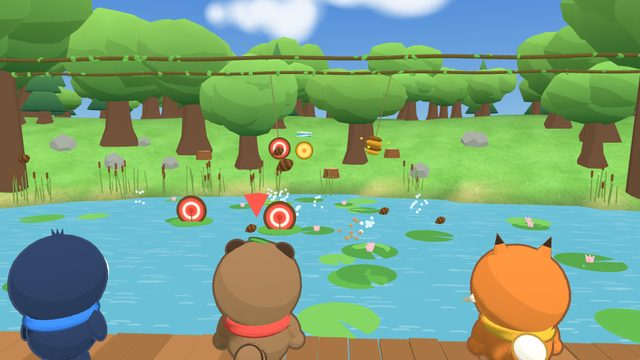
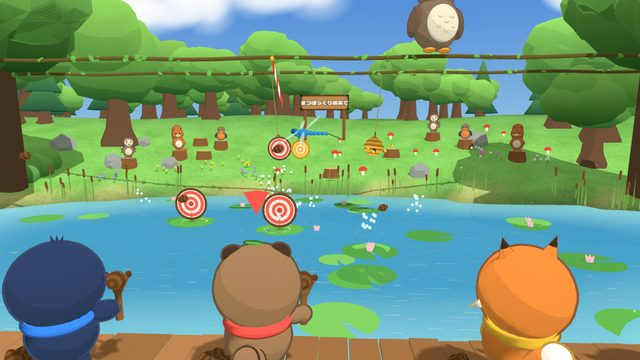
的あて: 会場を仕上げる(観客・審判・看板・岸の飾り)
- 観客(リス・ハリネズミ・コマドリ)を向こう岸の左右の切り株に。金の的・れんぞく・おわりでよろこぶ
- 審判のホーホー先生を手前のつるの綱の右に。はじめ・おわりで羽ばたく
- 向こう岸のまん中に「まつぼっくり的あて」の木の看板(手前の木はどけて見えるように)
- 岸ぞいに花の群れ・しげみ、向こう岸にキノコ
- サムネイルを撮りなおした

Claude-Session: https://claude.ai/code/session_01Cisc6eBGskeR7WZHkdup4y

diff --git a/src/games/mato/stage.js b/src/games/mato/stage.js
@@ -186,6 +186,119 @@ function buildFarShore(g) {
   }
 }
 
+// 観客席: 向こう岸の左右の土手(的が出るまん中はあける)。切り株に座る
+export const SEATS = [
+  { x: -8.6, z: -20.5, kind: 'risu' },
+  { x: -10.8, z: -18.6, kind: 'harinezumi' },
+  { x: -6.6, z: -22.4, kind: 'komadori' },
+  { x: 8.4, z: -20.8, kind: 'komadori' },
+  { x: 10.6, z: -18.8, kind: 'risu' },
+  { x: 6.9, z: -22.6, kind: 'harinezumi' },
+];
+export const SEAT_TOP = 0.42;
+const SIGN = { x: 0, z: -24 }; // 木の看板(向こう岸のまん中、切り株の的より上に見える)
+function buildSeats(g) {
+  const bark = toonMaterial(0x8a5a32), ring = toonMaterial(0xe0b77c);
+  for (const s of SEATS) {
+    const y = groundY(s.x, s.z);
+    const st = new THREE.Mesh(new THREE.CylinderGeometry(0.4, 0.5, 0.6, 12), bark);
+    st.position.set(s.x, y + SEAT_TOP - 0.3, s.z);
+    const top = new THREE.Mesh(new THREE.CircleGeometry(0.38, 12), ring);
+    top.rotation.x = -Math.PI / 2;
+    top.position.set(s.x, y + SEAT_TOP + 0.005, s.z);
+    g.add(st, top);
+  }
+}
+
+// 向こう岸の飾り: 花の群れ・しげみ・キノコ・木の看板
+function signTexture() {
+  const cv = document.createElement('canvas');
+  cv.width = 512;
+  cv.height = 160;
+  const x = cv.getContext('2d');
+  x.fillStyle = '#7a4a24';
+  x.beginPath();
+  x.roundRect(4, 4, 504, 152, 30);
+  x.fill();
+  x.fillStyle = '#c98f55';
+  x.beginPath();
+  x.roundRect(16, 16, 480, 128, 22);
+  x.fill();
+  x.font = '400 56px "Dela Gothic One", sans-serif';
+  x.textAlign = 'center';
+  x.textBaseline = 'middle';
+  x.lineWidth = 10;
+  x.strokeStyle = '#4a2a12';
+  x.strokeText('まつぼっくり的あて', 256, 84);
+  x.fillStyle = '#fff6e0';
+  x.fillText('まつぼっくり的あて', 256, 84);
+  const t = new THREE.CanvasTexture(cv);
+  t.colorSpace = THREE.SRGBColorSpace;
+  return t;
+}
+function buildDecor(g) {
+  const rand = makeRand(64);
+  // 花の群れ(岸ぞい)
+  const petals = [0xff8ad8, 0xffd23c, 0xffffff, 0xb08aff, 0xff6a5a].map((h) => toonMaterial(h));
+  const stem = toonMaterial(0x4f8a3a);
+  const flowerGeo = new THREE.SphereGeometry(0.07, 6, 5);
+  for (let k = 0; k < 26; k++) {
+    const a = rand() * Math.PI * 2;
+    const q = 1.08 + rand() * 0.35;
+    const cx = POND.cx + Math.cos(a) * POND.rx * q, cz = POND.cz + Math.sin(a) * POND.rz * q;
+    if (cz > -3) continue;
+    const mat = petals[k % petals.length];
+    for (let i = 0; i < 6; i++) {
+      const x = cx + (rand() - 0.5) * 1.2, z = cz + (rand() - 0.5) * 1.2;
+      const y = groundY(x, z);
+      const h = 0.15 + rand() * 0.2;
+      const s = new THREE.Mesh(new THREE.CylinderGeometry(0.01, 0.01, h, 3), stem);
+      s.position.set(x, y + h / 2, z);
+      const f = new THREE.Mesh(flowerGeo, mat);
+      f.position.set(x, y + h, z);
+      g.add(s, f);
+    }
+  }
+  // しげみ
+  const bush = foliageClump(rand, { detail: 1, balls: 4, bottom: 0x2f6b35, top: 0x7fc25a });
+  const bushMat = new THREE.MeshToonMaterial({ vertexColors: true });
+  for (let i = 0; i < 18; i++) {
+    const a = rand() * Math.PI * 2;
+    const q = 1.15 + rand() * 0.3;
+    const x = POND.cx + Math.cos(a) * POND.rx * q, z = POND.cz + Math.sin(a) * POND.rz * q;
+    if (z > -4 || Math.abs(x) < 6) continue; // 向こう岸のまん中(切り株の的のところ)はあける
+    const b = new THREE.Mesh(bush, bushMat);
+    b.scale.setScalar(0.9 + rand() * 0.8);
+    b.position.set(x, groundY(x, z) + 0.2, z);
+    g.add(b);
+  }
+  // キノコ
+  const cap = toonMaterial(0xe8402f), dot = toonMaterial(0xffffff), mstem = toonMaterial(0xfff1d6);
+  for (let i = 0; i < 14; i++) {
+    const x = (rand() - 0.5) * 26, z = -18 - rand() * 6;
+    const y = groundY(x, z), s = 0.12 + rand() * 0.12;
+    const st = new THREE.Mesh(new THREE.CylinderGeometry(s * 0.35, s * 0.45, s * 1.2, 6), mstem);
+    st.position.set(x, y + s * 0.6, z);
+    const c = new THREE.Mesh(new THREE.SphereGeometry(s, 10, 6, 0, Math.PI * 2, 0, Math.PI / 2), cap);
+    c.position.set(x, y + s * 1.1, z);
+    const d = new THREE.Mesh(new THREE.SphereGeometry(s * 0.18, 5, 4), dot);
+    d.position.set(x + s * 0.4, y + s * 1.5, z + s * 0.3);
+    g.add(st, c, d);
+  }
+  // 木の看板
+  const wood = toonMaterial(0x8a5a32);
+  const sx = SIGN.x, sz = SIGN.z, sy = groundY(sx, sz);
+  for (const ox of [-1.3, 1.3]) {
+    const post = new THREE.Mesh(new THREE.CylinderGeometry(0.09, 0.11, 3.0, 8), wood);
+    post.position.set(sx + ox, sy + 1.5, sz);
+    g.add(post);
+  }
+  const board = new THREE.Mesh(new THREE.PlaneGeometry(3.2, 1.0), new THREE.MeshToonMaterial({ map: signTexture() }));
+  board.position.set(sx, sy + 2.5, sz + 0.12);
+  board.userData.noMerge = true;
+  g.add(board);
+}
+
 function buildForest(g) {
   const rand = makeRand(303);
   const spots = [];
@@ -194,6 +307,8 @@ function buildForest(g) {
     if (pondQ(x, z) < 1.25) continue;
     if (z > -4 && Math.abs(x) < 10 && z < 14) continue; // 桟橋のうしろ(カメラのまわり)はあける
     if (Math.abs(Math.abs(x) - VINE_X) < 3 && z < -7 && z > -18) continue; // 綱の木のまわり
+    if (Math.abs(x - SIGN.x) < 5 && z > SIGN.z - 3 && z < -17) continue; // 看板のまわりと、看板の手前
+    if (SEATS.some((s) => Math.hypot(x - s.x, z - s.z) < 2.5)) continue; // 観客席のまわり
     spots.push({ x, y: groundY(x, z), z, h: 4.5 + rand() * 4, kind: rand() < 0.3 ? 'pine' : 'broad' });
   }
   buildForestTrees(g, spots);
@@ -206,6 +321,8 @@ export function buildStage(scene) {
   buildLilies(g);
   buildVines(g);
   buildFarShore(g);
+  buildSeats(g);
+  buildDecor(g);
   buildForest(g);
   mergeStatic(g);
   scene.add(g);

diff --git a/src/games/mato/game.js b/src/games/mato/game.js
@@ -9,12 +9,12 @@ import * as THREE from 'three';
 import { CHARACTERS, PLAYER_COLORS } from '../../characters.js';
 import { createModel, preload } from '../../runtime/models.js';
 import { nextRandom, seedFrom } from '../../rng.js';
-import { RULES, STEP, createGame, launch, fly, ranking, step, timeLeft } from './rules.js';
+import { RULES, STEP, VINES, VINE_Y, createGame, launch, fly, ranking, step, timeLeft } from './rules.js';
 import { createTargets } from './targets.js';
 import { makeBasket, makeSling } from './sling.js';
 import { createPond } from './pond.js';
 import { PERSONALITIES, cpuInput, createCpu } from './cpu.js';
-import { buildStage } from './stage.js';
+import { SEATS, SEAT_TOP, buildStage, groundY } from './stage.js';
 import { createAtmosphere } from '../daruma/atmosphere.js';
 
 const $ = (id) => document.getElementById(id);
@@ -204,7 +204,31 @@ export async function createMato({ renderer, settings, getAudio, onExit }) {
     if (amb.bird <= 0) { sfx.bird(); amb.bird = 4 + Math.random() * 7; }
   }
 
-  await preload(CHARACTERS.map((c) => c.key));
+  // ── 読みこみ: 審判の先生(手前のつるの綱の右はし)と、向こう岸の観客 ─────────
+  await preload([...CHARACTERS.map((c) => c.key), 'hoho', ...new Set(SEATS.map((s) => s.kind))]);
+  const owl = await createModel('hoho');
+  owl.root.position.set(4.2, VINE_Y + 0.3, -VINES[0]);
+  owl.root.rotation.y = 0.25; // 桟橋のほうを向く
+  owl.play('idle');
+  owl.setFace('normal');
+  scene.add(owl.root);
+  const audience = await Promise.all(SEATS.map(async (seat) => {
+    const m = await createModel(seat.kind);
+    m.root.position.set(seat.x, groundY(seat.x, seat.z) + SEAT_TOP, seat.z);
+    m.root.rotation.y = Math.atan2(-seat.x, -seat.z); // 桟橋のほうを向く
+    m.play('idle');
+    m.actions.idle.time = Math.random() * 2;
+    m.setFace('normal');
+    scene.add(m.root);
+    return { seat, model: m, until: 0 };
+  }));
+  atmosphere.setupShadows([stage.group, owl.root], [stage.group]);
+  atmosphere.setupShadows([], audience.map((a) => a.model.root));
+  // 観客がよろこぶ(金の的・れんぞく・おわり)
+  function cheer(sec = 1.6) {
+    for (const a of audience) { a.model.play('cheer'); a.model.setFace('happy'); a.until = sec * (0.8 + Math.random() * 0.4); }
+  }
+  function owlFlap() { owl.play('flap', { fade: 0.1 }); }
 
   // ── まつぼっくり ──────────────────────────────────────
   const pineGeo = (() => {
@@ -563,6 +587,7 @@ export async function createMato({ renderer, settings, getAudio, onExit }) {
         case 'start':
           splash('はじめ!');
           sfx.whistle();
+          owlFlap();
           break;
         case 'throw': {
           const v = game.runners[e.slot];
@@ -576,8 +601,8 @@ export async function createMato({ renderer, settings, getAudio, onExit }) {
             const at = new THREE.Vector3(STAND[0] + e.x, e.y, -e.d);
             targets.hit(e.id, at);
             pop(`+${e.points + e.bonus}`, at.clone().setY(at.y + 0.6), e.kind === 'gold' ? 'gold me' : 'me');
-            if (e.kind === 'gold') { sfx.gold(); splash('金の的!', 'gold'); } else sfx.hit(e.combo);
-            if (e.combo === 3 || e.combo === 6) { splash(e.combo === 6 ? '6れんぞく! +2' : '3れんぞく! +1', 'gold'); sfx.combo(e.combo === 6); }
+            if (e.kind === 'gold') { sfx.gold(); splash('金の的!', 'gold'); cheer(); } else sfx.hit(e.combo);
+            if (e.combo === 3 || e.combo === 6) { splash(e.combo === 6 ? '6れんぞく! +2' : '3れんぞく! +1', 'gold'); sfx.combo(e.combo === 6); cheer(1.2); }
           } else {
             const v = game.runners[e.slot];
             pop(`+${e.points + e.bonus}`, tmp.copy(v.holder.position).setY(2.2));
@@ -604,6 +629,8 @@ export async function createMato({ renderer, settings, getAudio, onExit }) {
         case 'finished':
           splash('そこまで!');
           sfx.whistle();
+          owlFlap();
+          cheer(3);
           game.endTimer = 2.2;
           break;
       }
@@ -780,7 +807,15 @@ export async function createMato({ renderer, settings, getAudio, onExit }) {
       updateShots(dt);
       updateFx(dt);
     }
-    if (!paused) pond.update(dt, game ? game.state.wind : 0, splashAt);
+    if (!paused) {
+      pond.update(dt, game ? game.state.wind : 0, splashAt);
+      for (const a of audience) {
+        if (a.until > 0 && (a.until -= dt) <= 0) { a.model.play('idle'); a.model.setFace('normal'); }
+        a.model.update(dt);
+      }
+      owl.update(dt);
+      if (owl.current === 'flap' && owl.actions.flap.time > 1.2) owl.play('idle');
+    }
     atmosphere.update(dt);
     updateCamera(dt);
     if (draw) renderer.render(scene, camera);

diff --git a/sw.js b/sw.js
@@ -10,7 +10,7 @@
 // 版はファイルの中身から作るので、1つでも変われば sw.js が変わり、ブラウザが入れなおす。
 
 // <precache>
-const VERSION = 'b8bd101c658b';
+const VERSION = '312d21403982';
 const PRECACHE = [
   "./",
   "./assets/thumbs/catch.jpg",

diff --git a/docs/minigames/mato.md b/docs/minigames/mato.md
@@ -8,6 +8,9 @@
 - 手前の岸に木の桟橋。5人が横にならぶ(自分はまん中。カメラは自分の右肩のうしろ・上から)。
 - 池にはハスの葉と花、岸にはガマとアシ。向こう岸は草の土手。まわりは森。
 - 池の上に、両がわの大きな木から木へ、**つるの綱**が2本(手前 10.5m・奥 14.5m)。つるされた的とハチの巣はここから下がる。
+- 審判のホーホー先生は、手前のつるの綱の右にとまっている(はじめ・おわりで羽ばたく)。
+- 観客(リス・ハリネズミ・コマドリ)は向こう岸の左右の切り株に。金の的・れんぞく・おわりでよろこぶ。
+- 向こう岸のまん中に「まつぼっくり的あて」の木の看板。岸ぞいに花の群れ・しげみ・キノコ。
 - 時間帯(朝・昼・夕方)は遊ぶたびに変わる。
 
 ## 動かし方(ぱちんこ)
